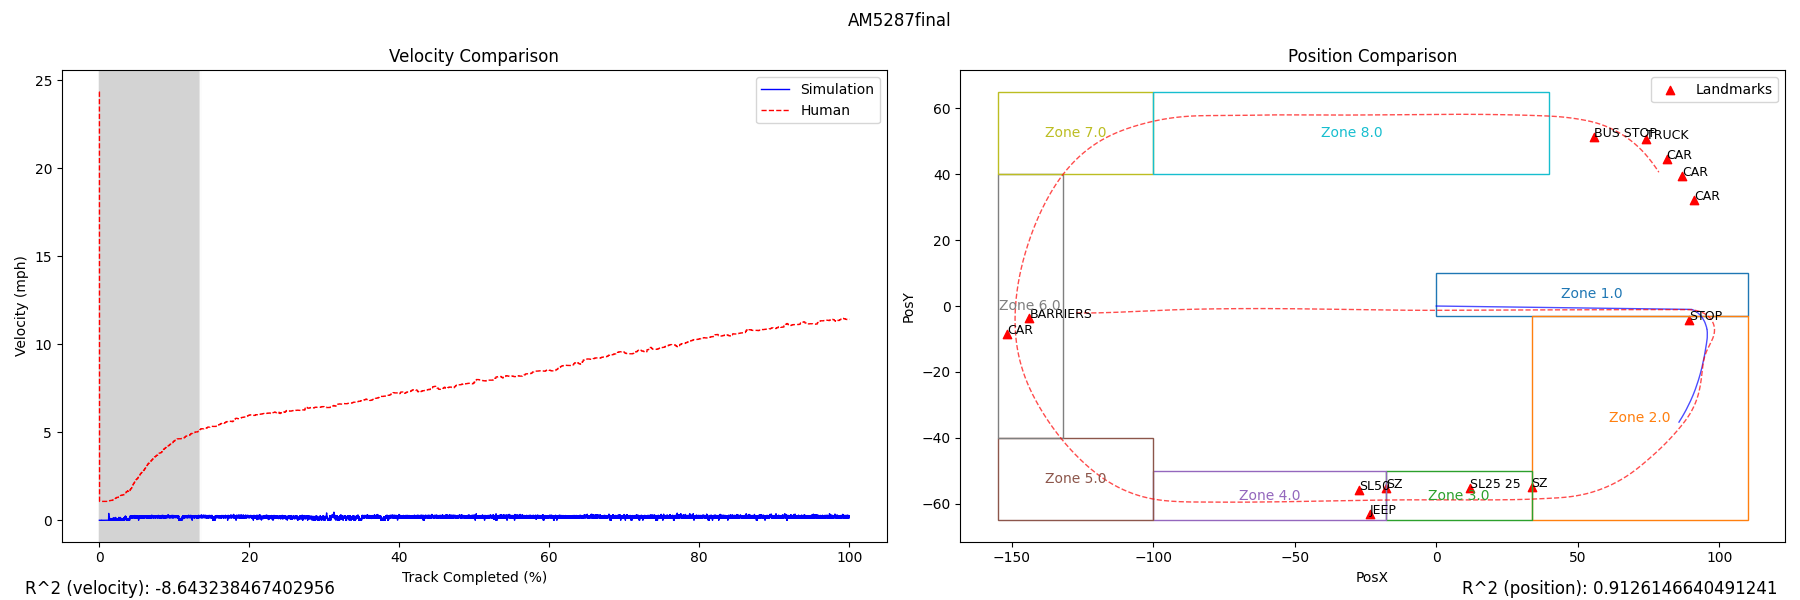
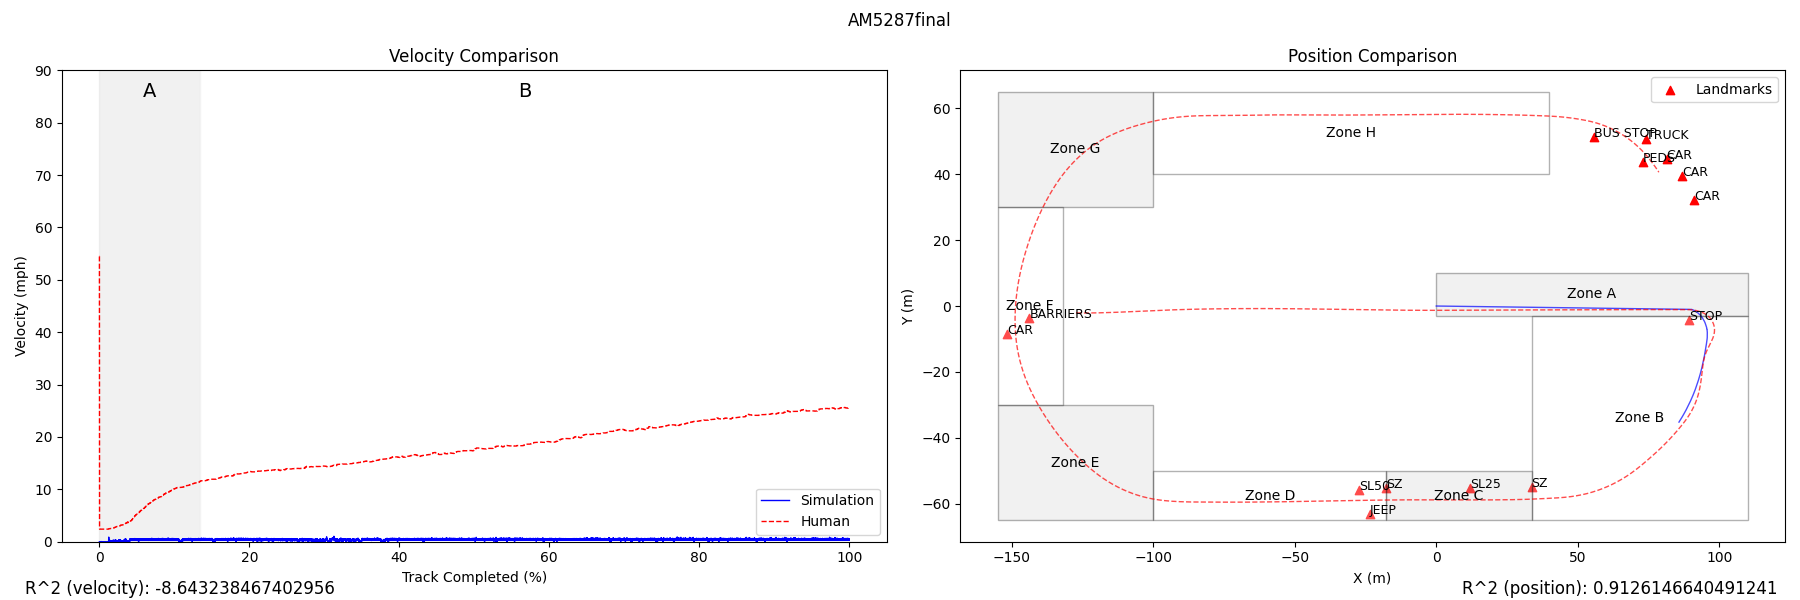
changed_color_coded_zones_to_mono_and_nums_to_alph

diff --git a/test3.py b/test3.py
@@ -9,8 +9,8 @@ import matplotlib.cm as cm
 
 ## SET YOUR PARTICIPANT ID HERE
 # participant_num = 'BJ7377'
-participant_num = 'AR4924'
-# participant_num = 'AM5287'
+# participant_num = 'AR4924'
+participant_num = 'AM5287'
 
 def calculate_velocity(df):
     df['dt'] = df['t'].diff()
@@ -51,11 +51,13 @@ def calculate_r_squared_nearest_with_zones(participant_id, simulation_csv_path, 
     plt.figtext(0.1, 0.01, f"R^2 (velocity): {r2_velocity}", wrap=True, horizontalalignment='center', fontsize=12)
     plt.figtext(0.9, 0.01, f"R^2 (position): {r2_position}", wrap=True, horizontalalignment='center', fontsize=12)
     landmarks_df = pd.read_csv('assets/plot_landmarks.csv')
-    school_zone_start = (0.01 * landmarks_df[landmarks_df['property'] == 'SZ']['x'].values[0], -60)
-    school_zone_end = (0.01 * landmarks_df[landmarks_df['property'] == 'SZ']['x'].values[1], -40)
-    school_zone_indices = sim_df.apply(lambda row: is_within_zone(row['PosX'], row['PosY'], school_zone_start, school_zone_end), axis=1)
 
-    #Uncomment if you want velocities in mph
+    ## School Zone Detection (Deprecated)
+    # school_zone_start = (0.01 * landmarks_df[landmarks_df['property'] == 'SZ']['x'].values[0], -60)
+    # school_zone_end = (0.01 * landmarks_df[landmarks_df['property'] == 'SZ']['x'].values[1], -40)
+    # school_zone_indices = sim_df.apply(lambda row: is_within_zone(row['PosX'], row['PosY'], school_zone_start, school_zone_end), axis=1)
+
+    # Uncomment if you want velocities in mph
     sim_velocities = sim_velocities * 2.23694
     nearest_human_velocities = nearest_human_velocities * 2.23694
 
@@ -66,26 +68,25 @@ def calculate_r_squared_nearest_with_zones(participant_id, simulation_csv_path, 
     plt.plot(track_percentage, sim_velocities, 'b-', label='Simulation', linewidth=1)
     plt.plot(track_percentage, nearest_human_velocities, 'r--', label='Human', linewidth=1)
 
-    # Alternate grey and white highlights for zones, with Zone 3 highlighted in yellow
+    # Fix y-axis range and add alphabet labels at a fixed y-position
+    plt.ylim(0, 90)
+    zone_labels = list("ABCDEFGH")  # Labels for zones
+    y_position = 85  # Fixed y-position for the zone labels
     for i, (_, zone) in enumerate(zone_df.iterrows()):
-        if zone['zone'] == 3:
-            color = 'yellow'  # Highlight Zone 3 in yellow
-        else:
-            color = 'lightgrey' if i % 2 == 0 else 'white'  # Alternate grey and white for other zones
-        
+        color = 'lightgrey' if i % 2 == 0 else 'white'  # Alternate grey and white for zones
         zone_indices = sim_df.apply(lambda row: is_within_zone(row['PosX'], row['PosY'], (zone['x1'], zone['y1']), (zone['x2'], zone['y2'])), axis=1)
-        for idx, in_zone in enumerate(zone_indices):
-            if in_zone:
-                if idx < len(track_percentage) - 1:
-                    plt.axvspan(track_percentage[idx], track_percentage[idx+1], color=color, alpha=0.3)
-                else:
-                    plt.axvspan(track_percentage[idx], track_percentage[idx], color=color, alpha=0.3)
+        in_zone_indices = [idx for idx, in_zone in enumerate(zone_indices) if in_zone]
+
+        if in_zone_indices:
+            plt.axvspan(track_percentage[in_zone_indices[0]], track_percentage[in_zone_indices[-1]], color=color, alpha=0.3)
+            mid_idx = in_zone_indices[len(in_zone_indices) // 2]
+            plt.text(track_percentage[mid_idx], y_position, zone_labels[i], fontsize=14, color='black', ha='center')
 
     plt.xlabel('Track Completed (%)')
     plt.ylabel('Velocity (mph)')
     plt.title('Velocity Comparison')
-    plt.legend()
-    
+    plt.legend(loc='lower right')  # Move the legend to the bottom right
+
     plt.subplot(1, 2, 2)
     plt.plot(-sim_df['PosX'], sim_df['PosY'], 'b-', markersize=3, linewidth=1, alpha=0.7)
     plt.plot(-human_df['x'], human_df['y'], 'r--', markersize=3, linewidth=1, alpha=0.7)
@@ -95,19 +96,19 @@ def calculate_r_squared_nearest_with_zones(participant_id, simulation_csv_path, 
         plt.text(-0.01*landmarks_df['x'][i], 0.01*landmarks_df['y'][i], label, fontsize=9, color='black')
 
     # Define a list of colors or use a colormap
-    colors = cm.get_cmap('tab10', len(zone_df))
+    # colors = cm.get_cmap('tab10', len(zone_df))
 
     for i, (_, zone) in enumerate(zone_df.iterrows()):
-        color = colors(i)
+        color = 'lightgrey' if i % 2 == 0 else 'white'  # Match the shading to velocity comparison
         rect = patches.Rectangle((-zone['x1'], zone['y1']),
                                 -(zone['x2'] - zone['x1']), (zone['y2'] - zone['y1']),
-                                linewidth=1, edgecolor=color, facecolor='none')
+                                linewidth=1, edgecolor='black', facecolor=color, alpha=0.3)
         plt.gca().add_patch(rect)
-        plt.text(-0.5 * (zone['x1'] + zone['x2']), 0.5 * (zone['y1'] + zone['y2']), f"Zone {zone['zone']}",
-                fontsize=10, color=color, verticalalignment='center', horizontalalignment='center')
+        plt.text(-0.5 * (zone['x1'] + zone['x2']), 0.5 * (zone['y1'] + zone['y2']), f"Zone {zone_labels[i]}",
+                fontsize=10, color='black', verticalalignment='center', horizontalalignment='center')
 
-    plt.xlabel('PosX')
-    plt.ylabel('PosY')
+    plt.xlabel('X (m)')
+    plt.ylabel('Y (m)')
     plt.title('Position Comparison')
     plt.legend()
     plt.subplots_adjust(left=0.1, right=0.9, top=0.9, bottom=0.1, wspace=0.3, hspace=0.3)

diff --git a/viz_r_sq.py b/viz_r_sq.py
@@ -9,8 +9,8 @@ import matplotlib.cm as cm
 
 ## SET YOUR PARTICIPANT ID HERE
 # participant_num = 'BJ7377'
-participant_num = 'AR4924'
-# participant_num = 'AM5287'
+# participant_num = 'AR4924'
+participant_num = 'AM5287'
 
 def calculate_velocity(df):
     df['dt'] = df['t'].diff()
@@ -51,11 +51,13 @@ def calculate_r_squared_nearest_with_zones(participant_id, simulation_csv_path, 
     plt.figtext(0.1, 0.01, f"R^2 (velocity): {r2_velocity}", wrap=True, horizontalalignment='center', fontsize=12)
     plt.figtext(0.9, 0.01, f"R^2 (position): {r2_position}", wrap=True, horizontalalignment='center', fontsize=12)
     landmarks_df = pd.read_csv('assets/plot_landmarks.csv')
-    school_zone_start = (0.01 * landmarks_df[landmarks_df['property'] == 'SZ']['x'].values[0], -60)
-    school_zone_end = (0.01 * landmarks_df[landmarks_df['property'] == 'SZ']['x'].values[1], -40)
-    school_zone_indices = sim_df.apply(lambda row: is_within_zone(row['PosX'], row['PosY'], school_zone_start, school_zone_end), axis=1)
 
-    #Uncomment if you want velocities in mph
+    ## School Zone Detection (Deprecated)
+    # school_zone_start = (0.01 * landmarks_df[landmarks_df['property'] == 'SZ']['x'].values[0], -60)
+    # school_zone_end = (0.01 * landmarks_df[landmarks_df['property'] == 'SZ']['x'].values[1], -40)
+    # school_zone_indices = sim_df.apply(lambda row: is_within_zone(row['PosX'], row['PosY'], school_zone_start, school_zone_end), axis=1)
+
+    # Uncomment if you want velocities in mph
     sim_velocities = sim_velocities * 2.23694
     nearest_human_velocities = nearest_human_velocities * 2.23694
 
@@ -66,26 +68,25 @@ def calculate_r_squared_nearest_with_zones(participant_id, simulation_csv_path, 
     plt.plot(track_percentage, sim_velocities, 'b-', label='Simulation', linewidth=1)
     plt.plot(track_percentage, nearest_human_velocities, 'r--', label='Human', linewidth=1)
 
-    # Alternate grey and white highlights for zones, with Zone 3 highlighted in yellow
+    # Fix y-axis range and add alphabet labels at a fixed y-position
+    plt.ylim(0, 90)
+    zone_labels = list("ABCDEFGH")  # Labels for zones
+    y_position = 85  # Fixed y-position for the zone labels
     for i, (_, zone) in enumerate(zone_df.iterrows()):
-        if zone['zone'] == 3:
-            color = 'yellow'  # Highlight Zone 3 in yellow
-        else:
-            color = 'lightgrey' if i % 2 == 0 else 'white'  # Alternate grey and white for other zones
-        
+        color = 'lightgrey' if i % 2 == 0 else 'white'  # Alternate grey and white for zones
         zone_indices = sim_df.apply(lambda row: is_within_zone(row['PosX'], row['PosY'], (zone['x1'], zone['y1']), (zone['x2'], zone['y2'])), axis=1)
-        for idx, in_zone in enumerate(zone_indices):
-            if in_zone:
-                if idx < len(track_percentage) - 1:
-                    plt.axvspan(track_percentage[idx], track_percentage[idx+1], color=color, alpha=0.3)
-                else:
-                    plt.axvspan(track_percentage[idx], track_percentage[idx], color=color, alpha=0.3)
+        in_zone_indices = [idx for idx, in_zone in enumerate(zone_indices) if in_zone]
+
+        if in_zone_indices:
+            plt.axvspan(track_percentage[in_zone_indices[0]], track_percentage[in_zone_indices[-1]], color=color, alpha=0.3)
+            mid_idx = in_zone_indices[len(in_zone_indices) // 2]
+            plt.text(track_percentage[mid_idx], y_position, zone_labels[i], fontsize=14, color='black', ha='center')
 
     plt.xlabel('Track Completed (%)')
     plt.ylabel('Velocity (mph)')
     plt.title('Velocity Comparison')
-    plt.legend()
-    
+    plt.legend(loc='lower right')  # Move the legend to the bottom right
+
     plt.subplot(1, 2, 2)
     plt.plot(-sim_df['PosX'], sim_df['PosY'], 'b-', markersize=3, linewidth=1, alpha=0.7)
     plt.plot(-human_df['x'], human_df['y'], 'r--', markersize=3, linewidth=1, alpha=0.7)
@@ -95,16 +96,16 @@ def calculate_r_squared_nearest_with_zones(participant_id, simulation_csv_path, 
         plt.text(-0.01*landmarks_df['x'][i], 0.01*landmarks_df['y'][i], label, fontsize=9, color='black')
 
     # Define a list of colors or use a colormap
-    colors = cm.get_cmap('tab10', len(zone_df))
+    # colors = cm.get_cmap('tab10', len(zone_df))
 
     for i, (_, zone) in enumerate(zone_df.iterrows()):
-        color = colors(i)
+        color = 'lightgrey' if i % 2 == 0 else 'white'  # Match the shading to velocity comparison
         rect = patches.Rectangle((-zone['x1'], zone['y1']),
                                 -(zone['x2'] - zone['x1']), (zone['y2'] - zone['y1']),
-                                linewidth=1, edgecolor=color, facecolor='none')
+                                linewidth=1, edgecolor='black', facecolor=color, alpha=0.3)
         plt.gca().add_patch(rect)
-        plt.text(-0.5 * (zone['x1'] + zone['x2']), 0.5 * (zone['y1'] + zone['y2']), "School Zone (3.0)" if zone['zone']==3 else f"Zone {zone['zone']}",
-                fontsize=10, color=color, verticalalignment='center', horizontalalignment='center')
+        plt.text(-0.5 * (zone['x1'] + zone['x2']), 0.5 * (zone['y1'] + zone['y2']), f"Zone {zone_labels[i]}",
+                fontsize=10, color='black', verticalalignment='center', horizontalalignment='center')
 
     plt.xlabel('X (m)')
     plt.ylabel('Y (m)')

diff --git a/test2.py b/test2.py
@@ -8,8 +8,8 @@ import matplotlib.patches as patches
 import matplotlib.cm as cm
 
 ## SET YOUR PARTICIPANT ID HERE
-participant_num = 'BJ7377'
-# participant_num = 'AR4924'
+# participant_num = 'BJ7377'
+participant_num = 'AR4924'
 # participant_num = 'AM5287'
 
 def calculate_velocity(df):
@@ -54,12 +54,17 @@ def calculate_r_squared_nearest_with_zones(participant_id, simulation_csv_path, 
     school_zone_start = (0.01 * landmarks_df[landmarks_df['property'] == 'SZ']['x'].values[0], -60)
     school_zone_end = (0.01 * landmarks_df[landmarks_df['property'] == 'SZ']['x'].values[1], -40)
     school_zone_indices = sim_df.apply(lambda row: is_within_zone(row['PosX'], row['PosY'], school_zone_start, school_zone_end), axis=1)
+
+    #Uncomment if you want velocities in mph
     sim_velocities = sim_velocities * 2.23694
     nearest_human_velocities = nearest_human_velocities * 2.23694
 
+    # Calculate percentage of track completed
+    track_percentage = np.linspace(0, 100, len(sim_df))
+
     plt.subplot(1, 2, 1)
-    plt.plot(range(len(sim_df)), sim_velocities, 'b-', label='Simulation', linewidth=1)
-    plt.plot(range(len(nearest_human_velocities)), nearest_human_velocities, 'r--', label='Human', linewidth=1)
+    plt.plot(track_percentage, sim_velocities, 'b-', label='Simulation', linewidth=1)
+    plt.plot(track_percentage, nearest_human_velocities, 'r--', label='Human', linewidth=1)
 
     # Alternate grey and white highlights for zones, with Zone 3 highlighted in yellow
     for i, (_, zone) in enumerate(zone_df.iterrows()):
@@ -71,9 +76,12 @@ def calculate_r_squared_nearest_with_zones(participant_id, simulation_csv_path, 
         zone_indices = sim_df.apply(lambda row: is_within_zone(row['PosX'], row['PosY'], (zone['x1'], zone['y1']), (zone['x2'], zone['y2'])), axis=1)
         for idx, in_zone in enumerate(zone_indices):
             if in_zone:
-                plt.axvspan(idx, idx+1, color=color, alpha=0.3)
+                if idx < len(track_percentage) - 1:
+                    plt.axvspan(track_percentage[idx], track_percentage[idx+1], color=color, alpha=0.3)
+                else:
+                    plt.axvspan(track_percentage[idx], track_percentage[idx], color=color, alpha=0.3)
 
-    plt.xlabel('Index')
+    plt.xlabel('Track Completed (%)')
     plt.ylabel('Velocity (mph)')
     plt.title('Velocity Comparison')
     plt.legend()
@@ -88,6 +96,7 @@ def calculate_r_squared_nearest_with_zones(participant_id, simulation_csv_path, 
 
     # Define a list of colors or use a colormap
     colors = cm.get_cmap('tab10', len(zone_df))
+    # colors = 'lightgrey' if i % 2 == 0 else 'white'
 
     for i, (_, zone) in enumerate(zone_df.iterrows()):
         color = colors(i)
@@ -95,11 +104,11 @@ def calculate_r_squared_nearest_with_zones(participant_id, simulation_csv_path, 
                                 -(zone['x2'] - zone['x1']), (zone['y2'] - zone['y1']),
                                 linewidth=1, edgecolor=color, facecolor='none')
         plt.gca().add_patch(rect)
-        plt.text(-0.5 * (zone['x1'] + zone['x2']), 0.5 * (zone['y1'] + zone['y2']), f"Zone {zone['zone']}",
+        plt.text(-0.5 * (zone['x1'] + zone['x2']), 0.5 * (zone['y1'] + zone['y2']), "School Zone (3.0)" if zone['zone']==3 else f"Zone {zone['zone']}",
                 fontsize=10, color=color, verticalalignment='center', horizontalalignment='center')
 
-    plt.xlabel('PosX')
-    plt.ylabel('PosY')
+    plt.xlabel('X (m)')
+    plt.ylabel('Y (m)')
     plt.title('Position Comparison')
     plt.legend()
     plt.subplots_adjust(left=0.1, right=0.9, top=0.9, bottom=0.1, wspace=0.3, hspace=0.3)
